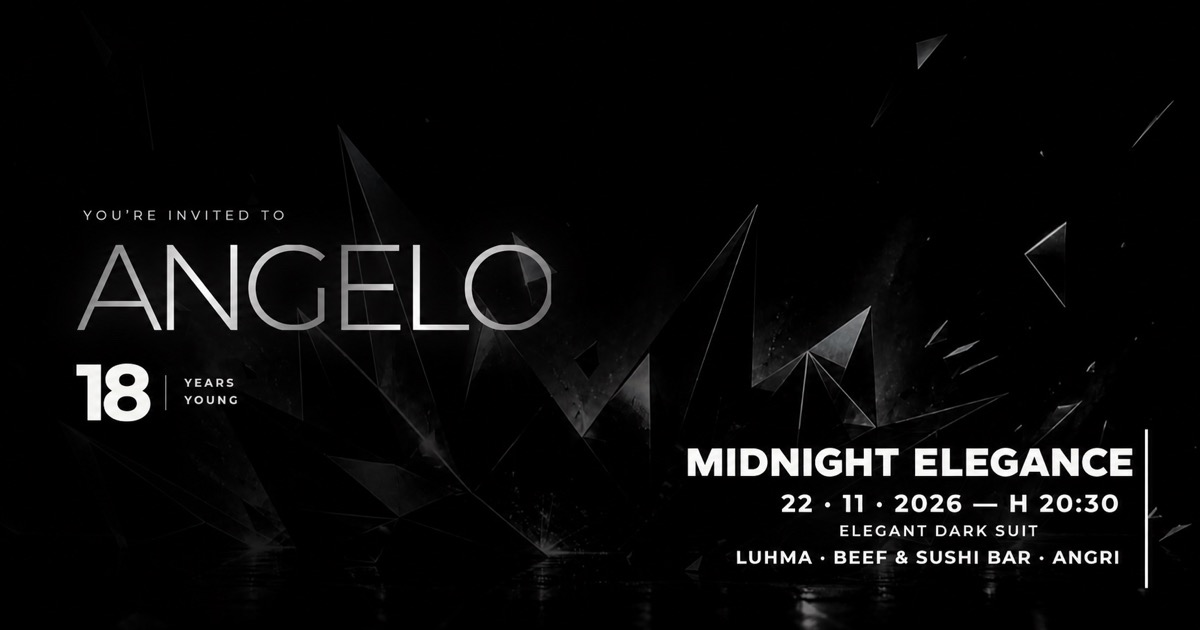
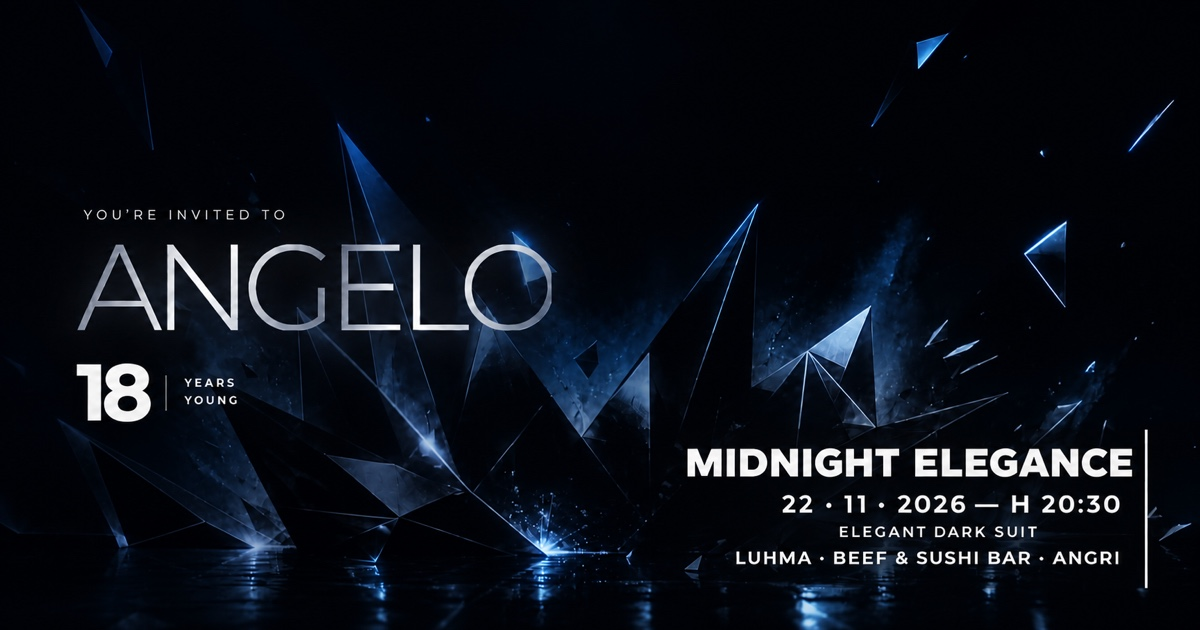
Refresh social preview metadata and artwork

diff --git a/index.html b/index.html
@@ -19,11 +19,17 @@
       property="og:description"
       content="22 novembre 2026 · ore 20:30 · LUHMA, Angri. Dress code: Elegant Dark Suit."
     />
-    <meta property="og:image" content="https://angelo18.ch/assets/angelo-18-whatsapp-v4.jpg" />
+    <meta property="og:site_name" content="Angelo 18" />
+    <meta property="og:image" content="https://angelo18.ch/assets/angelo-18-whatsapp-midnight-elegance.jpg" />
+    <meta property="og:image:type" content="image/jpeg" />
     <meta property="og:image:width" content="1200" />
     <meta property="og:image:height" content="630" />
     <meta property="og:image:alt" content="Angelo 18 Midnight Elegance, 22 novembre 2026" />
     <meta name="twitter:card" content="summary_large_image" />
+    <meta name="twitter:title" content="Angelo 18 — Midnight Elegance" />
+    <meta name="twitter:description" content="22 novembre 2026 · ore 20:30 · LUHMA, Angri. Dress code: Elegant Dark Suit." />
+    <meta name="twitter:image" content="https://angelo18.ch/assets/angelo-18-whatsapp-midnight-elegance.jpg" />
+    <meta name="twitter:image:alt" content="Angelo 18 Midnight Elegance, 22 novembre 2026" />
 
     <link rel="canonical" href="https://angelo18.ch/" />
 

diff --git a/og-card.html b/og-card.html
@@ -4,7 +4,8 @@
     <meta charset="UTF-8" />
     <meta name="viewport" content="width=device-width, initial-scale=1" />
     <meta name="robots" content="noindex" />
-    <title>Angelo 18 — Social card</title>
+    <title>Angelo 18 — Midnight Elegance</title>
+    <meta name="description" content="Angelo 18 — Midnight Elegance, 22 novembre 2026, ore 20:30." />
     <link rel="preconnect" href="https://fonts.googleapis.com" />
     <link rel="preconnect" href="https://fonts.gstatic.com" crossorigin />
     <link href="https://fonts.googleapis.com/css2?family=Montserrat:wght@300;500;700;800&display=swap" rel="stylesheet" />
@@ -21,7 +22,7 @@
           <div class="card__age"><strong>18</strong><span>years<br />young</span></div>
         </div>
         <div class="card__details">
-          <span>Midnight elegance</span>
+          <span>Midnight Elegance</span>
           <strong>22 · 11 · 2026 — h 20:30</strong>
           <small>LUHMA · Beef & Sushi Bar · Angri</small>
         </div>

diff --git a/script.js b/script.js
@@ -339,7 +339,7 @@ copyIbanButton.addEventListener("click", async () => {
 
 document.querySelector("#share-button").addEventListener("click", () => {
   const shareUrl = new URL(window.location.href);
-  shareUrl.searchParams.set("v", "6");
+  shareUrl.searchParams.set("v", "7");
   shareUrl.hash = "";
   const message = [
     "Angelo compie 18 anni ✦",
